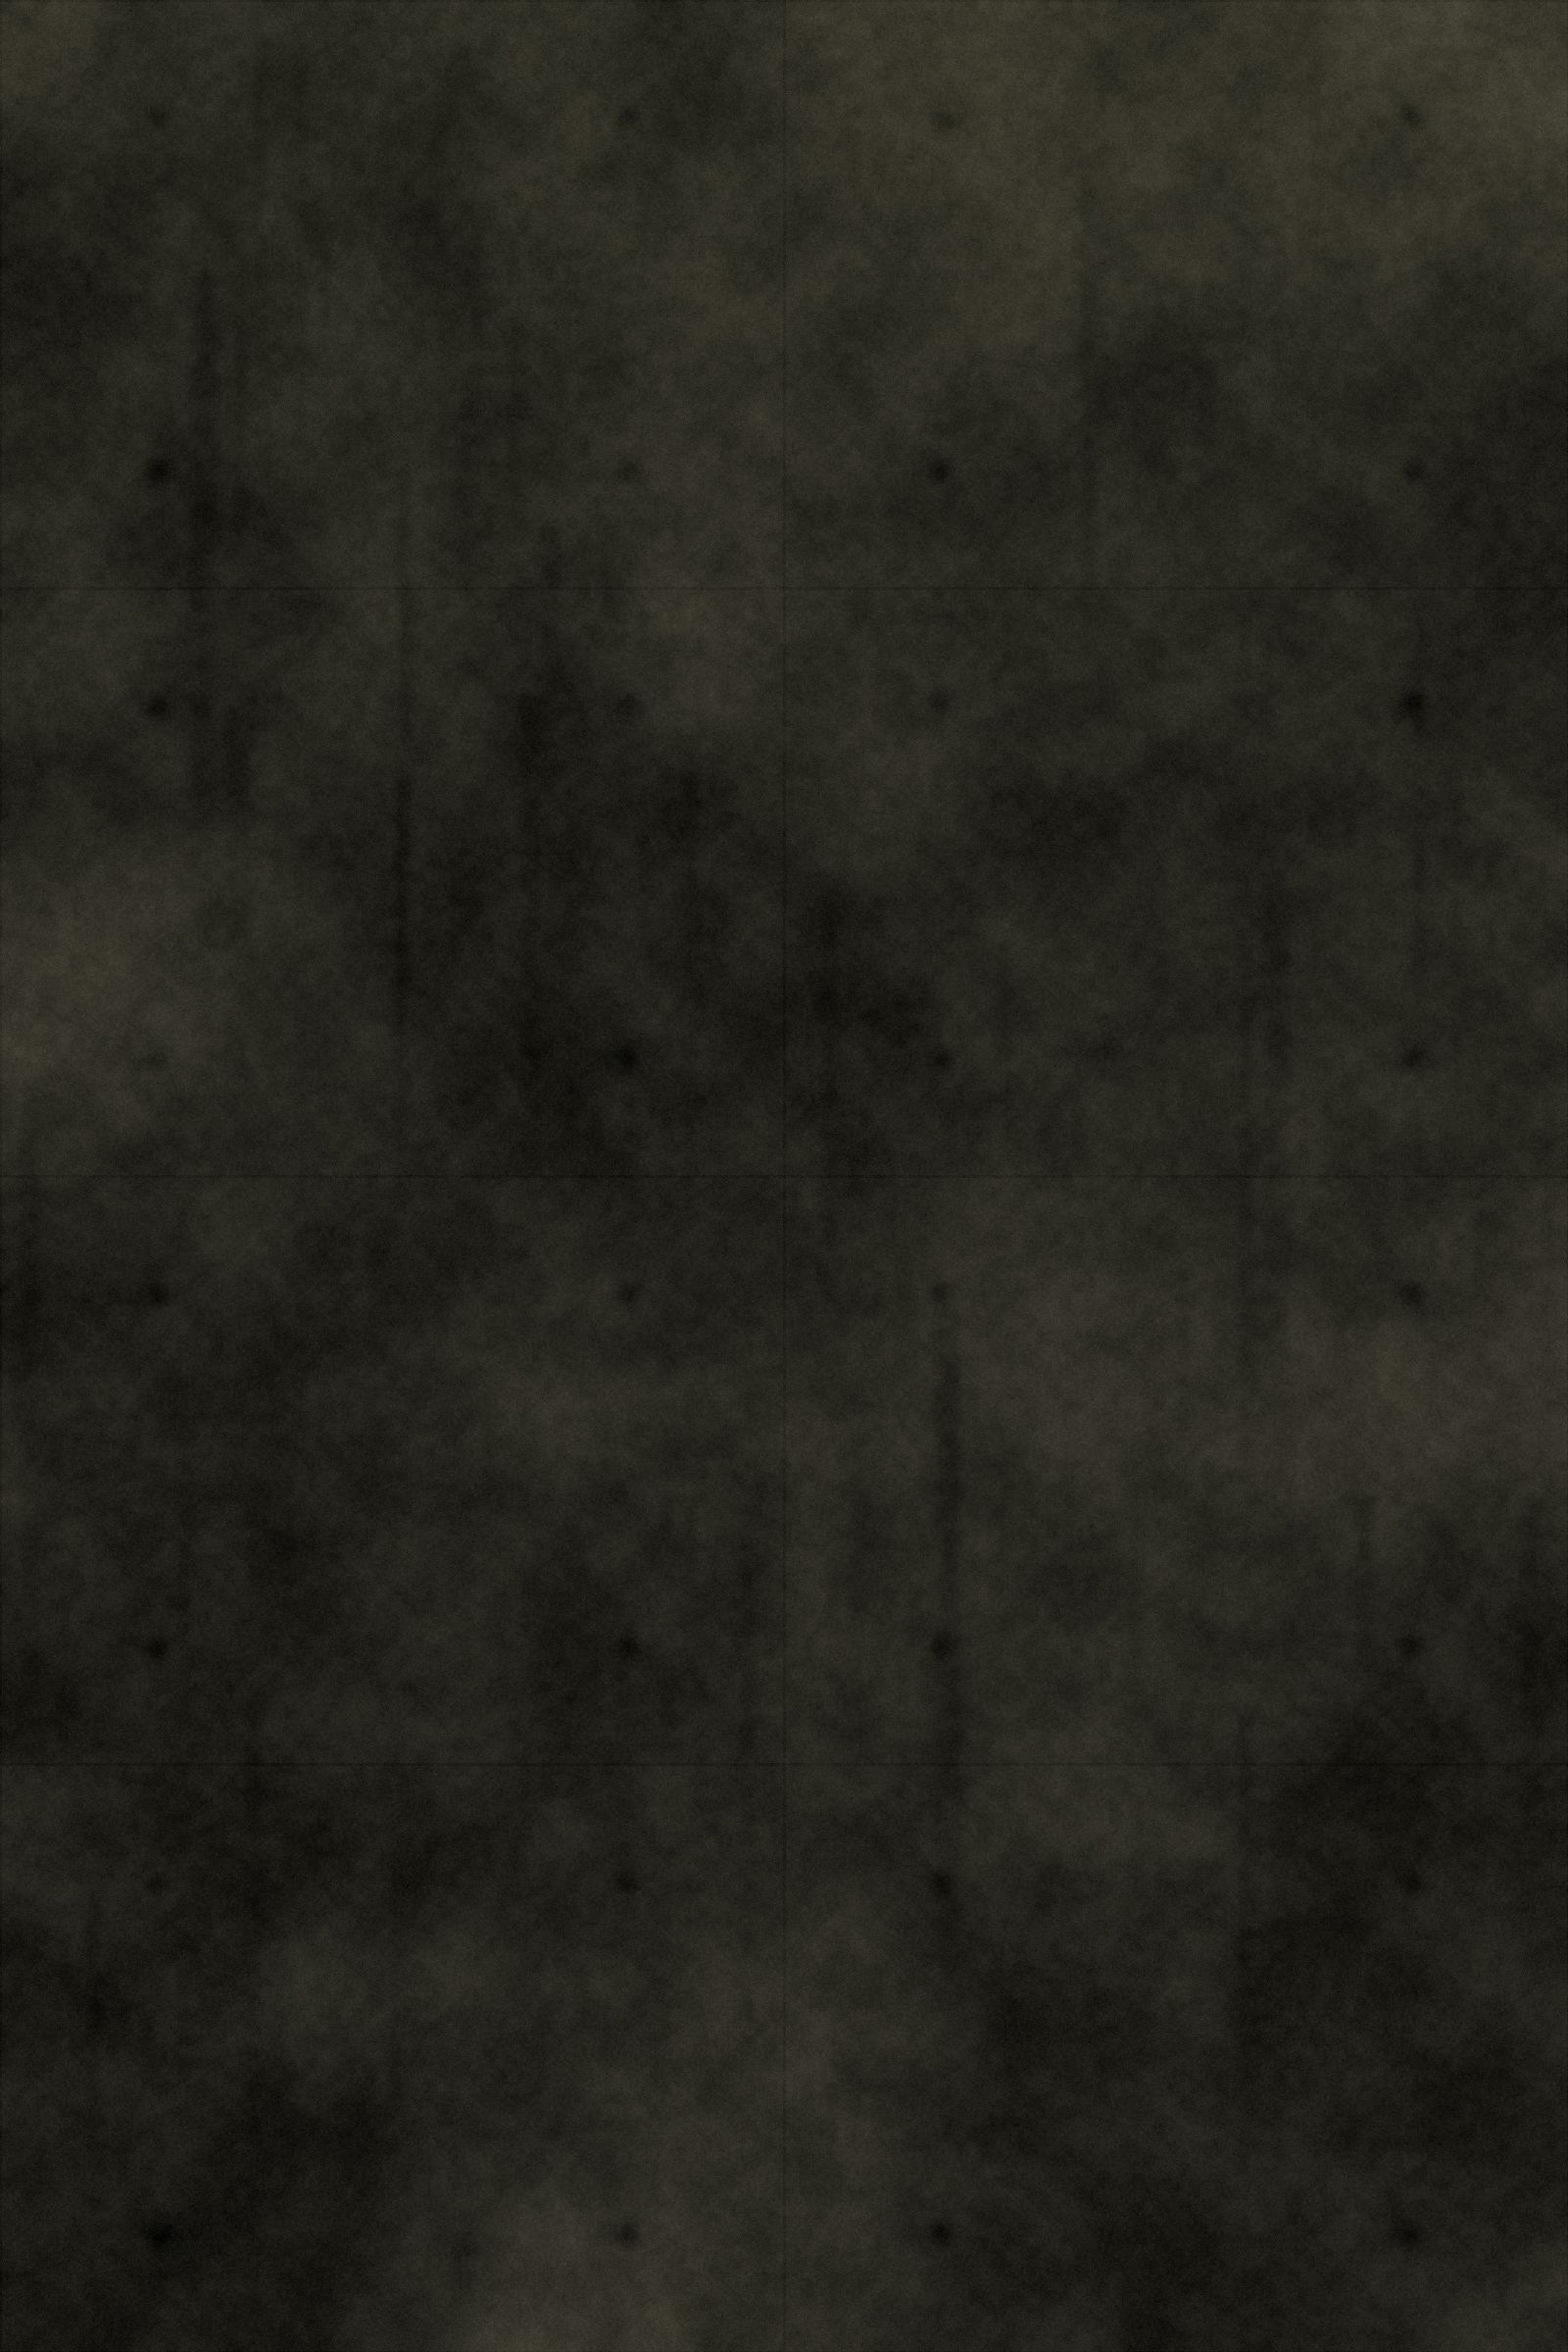
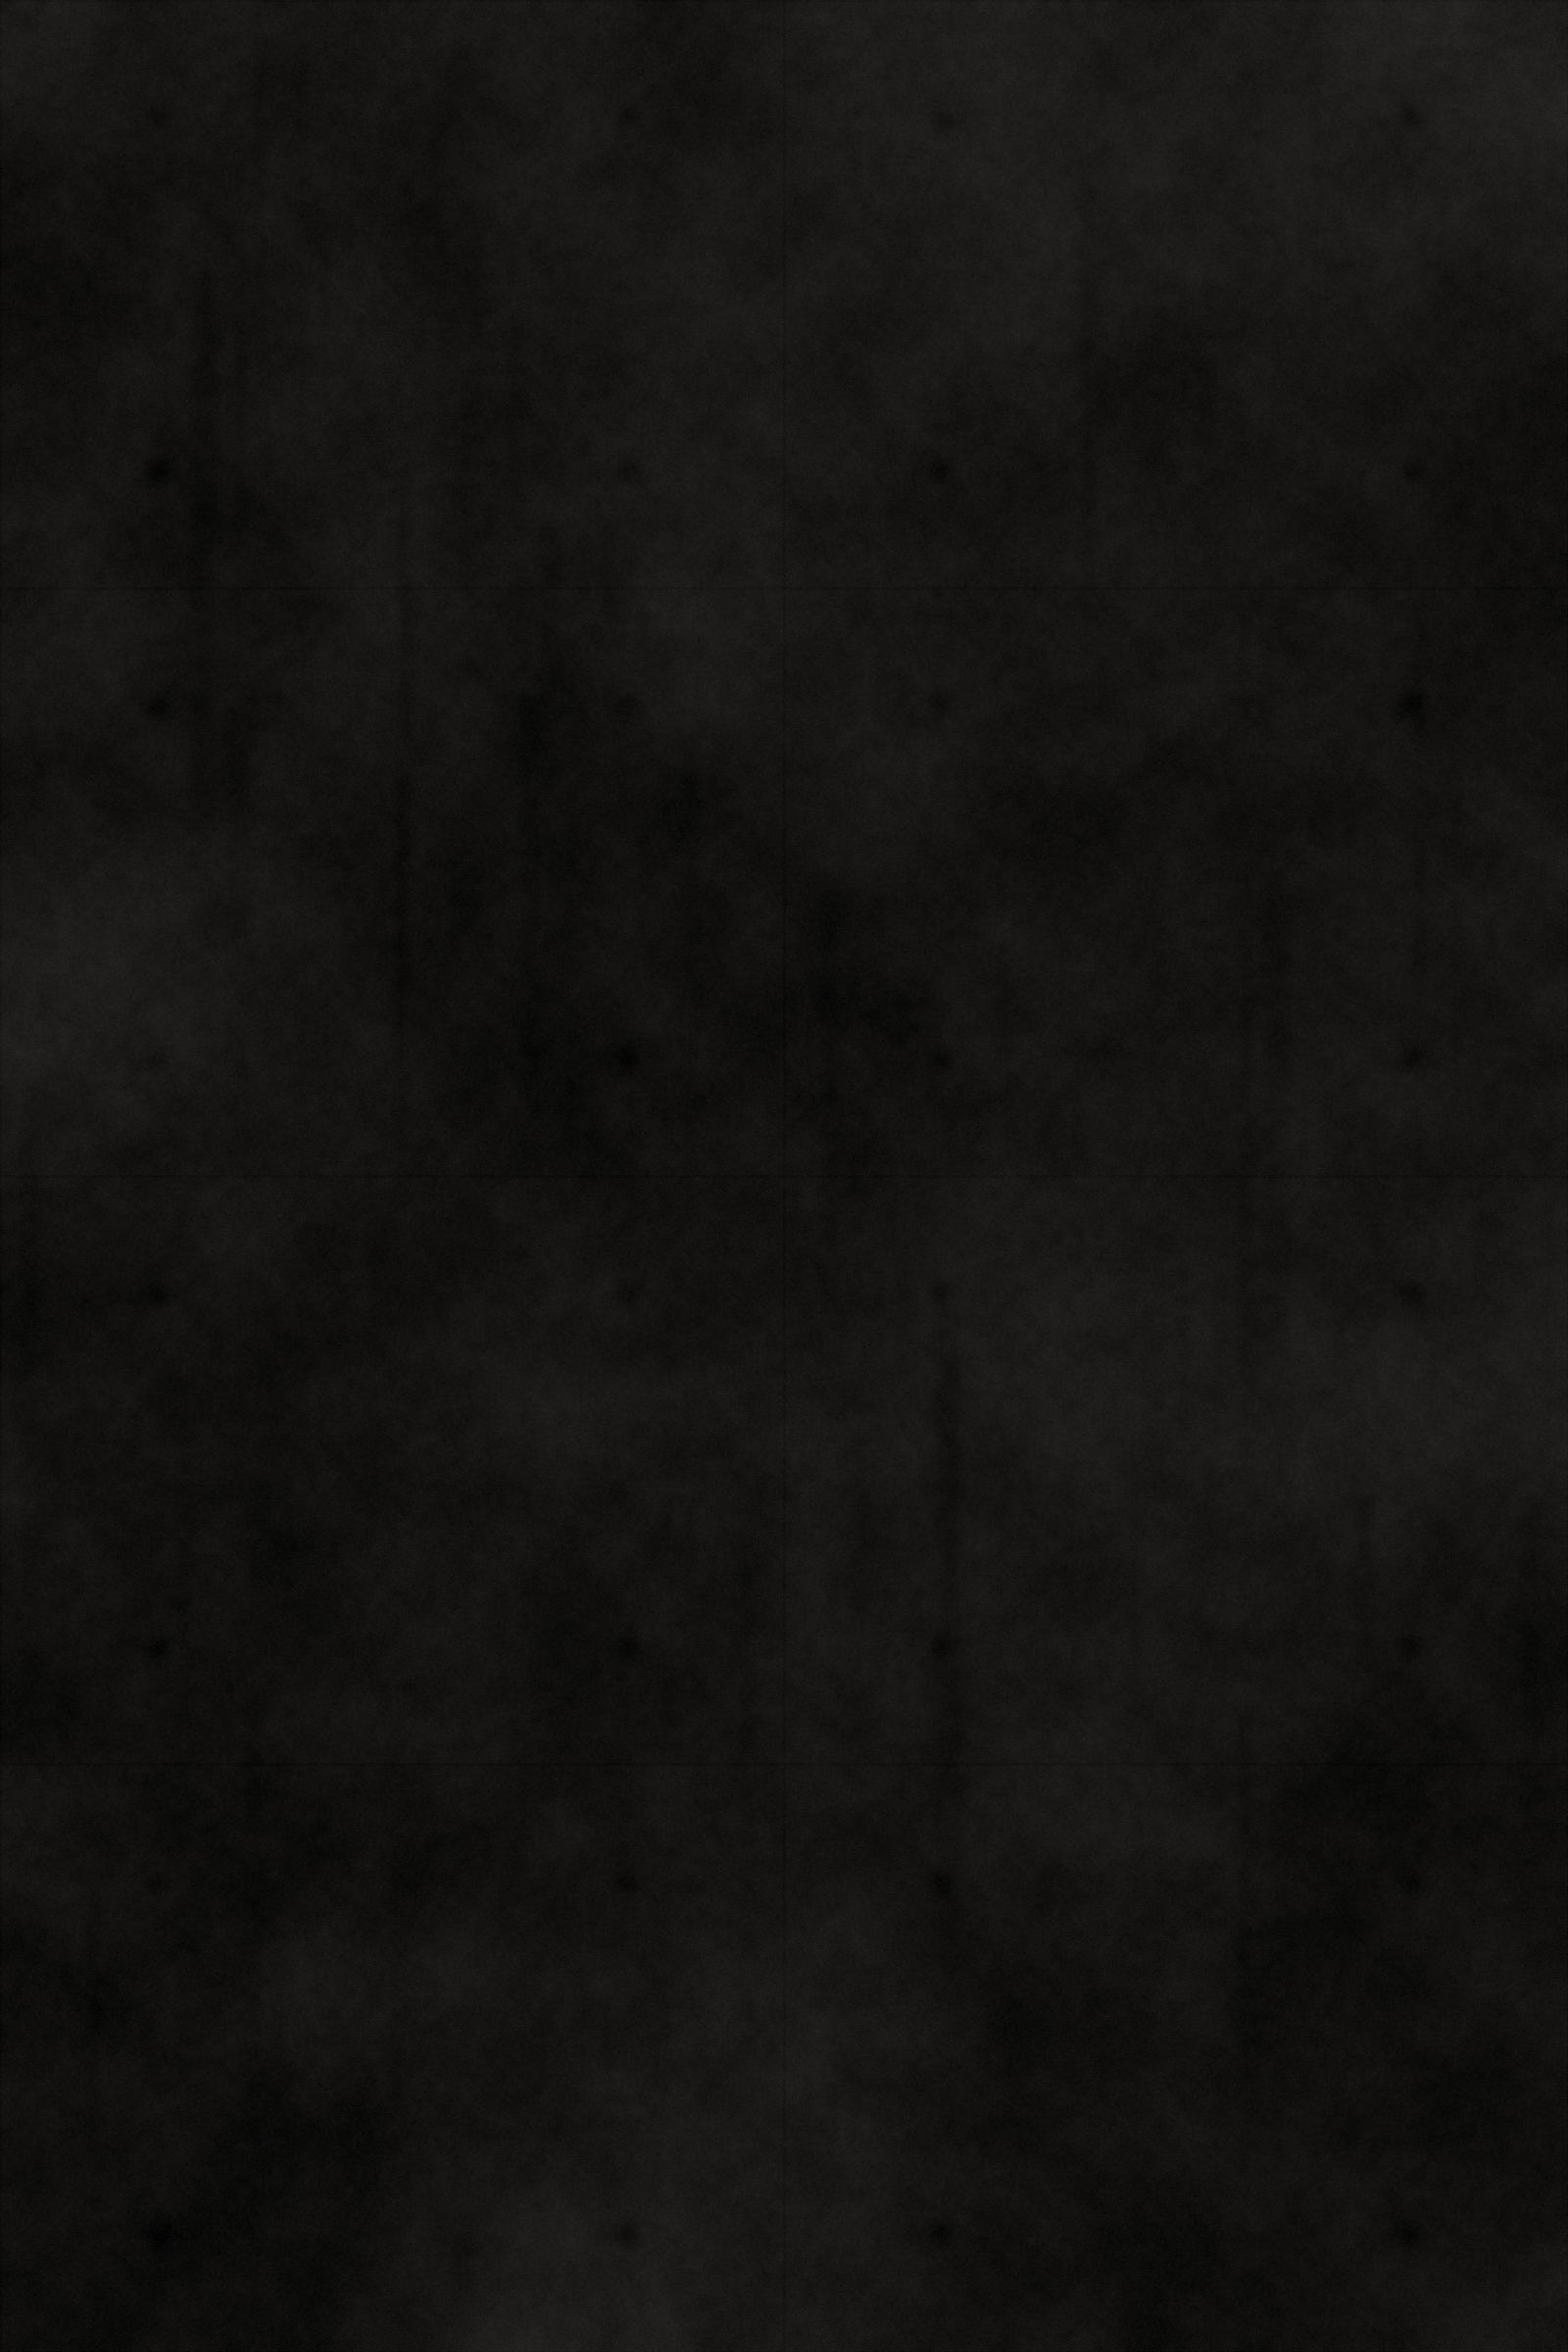
Background: darker, neutral grey concrete (remove green cast)
Claude-Session: https://claude.ai/code/session_01JzgLTKxB6FC6K61dWiCAyR

diff --git a/en.html b/en.html
@@ -11,8 +11,8 @@
 <style>
 *,*::before,*::after{box-sizing:border-box}
 html{scroll-behavior:smooth}
-body{margin:0;background:#0B0B09}
-body::before{content:"";position:fixed;inset:0;z-index:-1;background:#0B0B09 url(images/bg-concrete.jpg) center/cover no-repeat}
+body{margin:0;background:#080807}
+body::before{content:"";position:fixed;inset:0;z-index:-1;background:#080807 url(images/bg-concrete.jpg) center/cover no-repeat}
 a{color:#EDEDED}a:hover{color:#9A9A9A}
 .nav{display:flex;justify-content:space-between;align-items:center;gap:12px;padding:0 24px;border-bottom:1px solid #2A2A2A;font-size:15px}
 .nav a{display:inline-flex;align-items:center;min-height:52px;text-decoration:none}

diff --git a/index.html b/index.html
@@ -11,8 +11,8 @@
 <style>
 *,*::before,*::after{box-sizing:border-box}
 html{scroll-behavior:smooth}
-body{margin:0;background:#0B0B09}
-body::before{content:"";position:fixed;inset:0;z-index:-1;background:#0B0B09 url(images/bg-concrete.jpg) center/cover no-repeat}
+body{margin:0;background:#080807}
+body::before{content:"";position:fixed;inset:0;z-index:-1;background:#080807 url(images/bg-concrete.jpg) center/cover no-repeat}
 a{color:#EDEDED}a:hover{color:#9A9A9A}
 .nav{display:flex;justify-content:space-between;align-items:center;gap:12px;padding:0 24px;border-bottom:1px solid #2A2A2A;font-size:15px}
 .nav a{display:inline-flex;align-items:center;min-height:52px;text-decoration:none}
